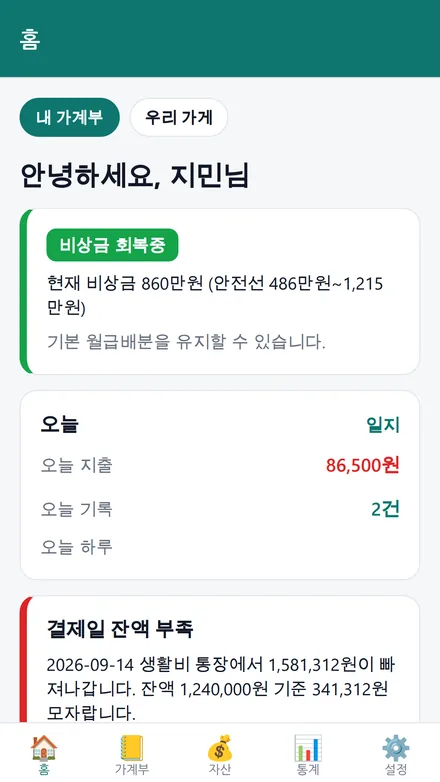
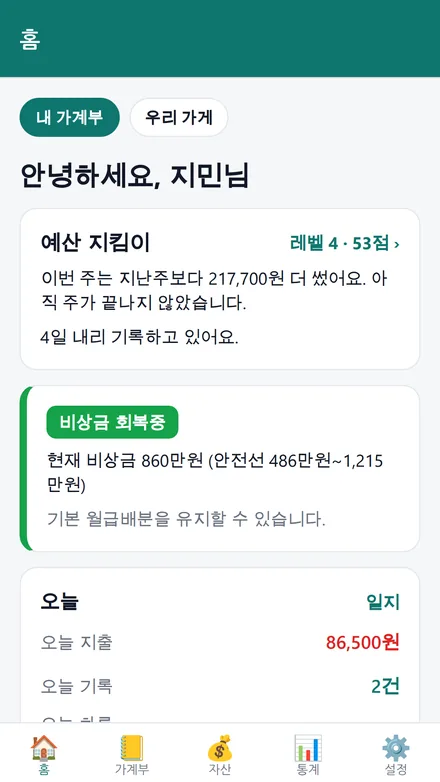
하우투 안내 페이지 갱신 2026-09-10 18:31

diff --git a/howtoo/index.html b/howtoo/index.html
@@ -23,6 +23,8 @@
     <a href="#screens">화면</a>
     <a href="#features">기능</a>
     <a href="#card-loan">카드·대출</a>
+    <a href="#grow">점수·뱃지</a>
+    <a href="#learn">금융 학습</a>
     <a href="./guide.html">사용 안내</a>
     <a href="./privacy.html">개인정보</a>
     <a class="lang" href="./en/">English</a>
@@ -37,16 +39,24 @@
       <h1>가계부가 달력을<br>볼 줄 알아야죠</h1>
       <p class="sub">
         카드 결제일이 주말·공휴일에 걸리면 실제로는 다음 영업일에 빠져나갑니다.
-        하우투는 그걸 계산해서 미리 알려줍니다. 그리고 돈 이야기만 하지 않습니다 —
-        그날 왜 그렇게 썼는지, 몸이 어땠는지까지 같이 남깁니다.
+        하우투는 그걸 계산해서 미리 알려줍니다. 카드 취소, 카드 혜택, 대출 이자와 원금 —
+        <b>가계부가 늘 틀리던 것들을 대신 계산합니다.</b>
       </p>
+      <ul class="wins" aria-label="이 앱이 대신 해 주는 것">
+        <li><b>실제 출금일</b>로 계산 — 휴일이면 다음 영업일</li>
+        <li><b>카드 취소</b>가 어느 청구서에서 빠지는지</li>
+        <li><b>어느 카드로 냈어야</b> 가장 좋았는지</li>
+        <li><b>이자와 원금</b>을 갈라서 기록 — 순자산이 정확해집니다</li>
+        <li><b>점수와 뱃지</b> — 이번 주엔 지난주보다 얼마 아꼈는지</li>
+        <li><b>연금·세금을 쉬운 말로</b> — 눈높이 세 단계</li>
+      </ul>
       <div class="badges">
         <a class="badge soon" href="#" aria-disabled="true">Google Play — 준비 중</a>
         <a class="badge soon" href="#" aria-disabled="true">App Store — 준비 중</a>
         <a class="badge ghost" href="./guide.html">사용 안내 보기</a>
       </div>
       <ul class="chips" aria-label="들어 있는 기능">
-        <li>가계부</li><li>소비 일기</li><li>생리 기록</li><li>계산기</li><li>자영업 손익</li><li>투자</li><li>절세</li>
+        <li>가계부</li><li>대출·할부</li><li>카드 혜택</li><li>소비 일기</li><li>생리 기록</li><li>계산기</li><li>자영업 손익</li><li>투자</li><li>절세</li><li>금융 학습</li>
       </ul>
     </div>
     <div class="phone"><img src="./img/shot-dashboard.webp" width="440" height="782" alt="홈 화면 — 비상금 상태, 오늘 지출, 모으기 진행률" /></div>
@@ -64,6 +74,8 @@
       <figure><img src="./img/shot-calculator.webp" width="440" height="782" alt="" loading="lazy" /><figcaption>계산기</figcaption></figure>
       <figure><img src="./img/shot-loans.webp" width="440" height="782" alt="" loading="lazy" /><figcaption>대출·할부</figcaption></figure>
       <figure><img src="./img/shot-benefits.webp" width="440" height="782" alt="" loading="lazy" /><figcaption>카드 혜택</figcaption></figure>
+      <figure><img src="./img/shot-progress.webp" width="440" height="782" alt="" loading="lazy" /><figcaption>내 점수</figcaption></figure>
+      <figure><img src="./img/shot-learn.webp" width="440" height="782" alt="" loading="lazy" /><figcaption>금융 학습</figcaption></figure>
     </div>
   </section>
 
@@ -152,12 +164,27 @@
           <tr>
             <td>디딤돌·버팀목·중기청 대출</td>
             <td class="no">직접 이율·방식을 계산</td>
-            <td class="yes">정부지원 상품까지 골라서 넣습니다 (36종)</td>
+            <td class="yes">정부지원 상품까지 골라서 넣습니다 (37종)</td>
+          </tr>
+          <tr>
+            <td>거치 3년 뒤 상환금이 뛴다</td>
+            <td class="no">닥쳐서야 알게 됨</td>
+            <td class="yes">거치가 끝나면 매달 얼마로 오르는지 지금 알려줍니다</td>
           </tr>
           <tr>
             <td>마이너스통장</td>
             <td class="no">할부처럼 취급되어 계산이 틀림</td>
             <td class="yes">한도와 쓴 만큼의 이자로 따로 계산합니다</td>
+          </tr>
+          <tr>
+            <td>아껴도 티가 안 나 재미가 없다</td>
+            <td class="no">숫자만 쌓임</td>
+            <td class="yes">점수·레벨·뱃지로 보여주고 &lsquo;지난주보다 얼마 아꼈는지&rsquo;를 같은 기간끼리 견줍니다</td>
+          </tr>
+          <tr>
+            <td>연금저축과 IRP가 뭐가 다른지 모름</td>
+            <td class="no">알아서 찾아보라고 함</td>
+            <td class="yes">앱 안에서 눈높이 세 단계로 설명합니다 (초등학생도 읽을 수 있게)</td>
           </tr>
           <tr>
             <td>부부가 각자 IRP·ISA를 굴림</td>
@@ -293,7 +320,7 @@
         <div class="icon">📋</div>
         <span class="tag">35종</span>
         <h3>디딤돌·버팀목·중기청까지</h3>
-        <p>주택담보·집단대출(중도금·잔금)·디딤돌·신생아 특례·생애최초·보금자리론·버팀목·청년전용·중소기업취업청년·캐피탈(신차·중고차)·휴대폰 할부·햇살론·사잇돌·마이너스통장까지 36종을 골라서 넣습니다.</p>
+        <p>주택담보(원리금·원금균등·거치식)·집단대출(중도금·잔금)·디딤돌·신생아 특례·생애최초·보금자리론·버팀목·청년전용·중소기업취업청년·캐피탈(신차·중고차)·휴대폰 할부·햇살론·사잇돌·마이너스통장까지 37종을 골라서 넣습니다. <b>거치기간</b>도 그대로 계산합니다.</p>
       </div>
     </div>
     <div class="note">
@@ -325,6 +352,60 @@
         <h3>각자 쓰고, 합쳐서 보고</h3>
         <p>부부·연인이 각자 장부를 그대로 굴리면서 자산과 흐름만 합쳐 봅니다. 연금·IRP·퇴직연금은 지금 못 쓰는 돈이라 따로 셉니다.</p>
       </div>
+    </div>
+  </section>
+
+  <section class="block" id="grow">
+    <h2>계속 하게 만드는 것들</h2>
+    <p class="lead">가계부는 석 달을 못 넘기는 게 보통입니다. 그래서 <b>좋아진 것을 먼저 보여줍니다.</b></p>
+    <div class="grid">
+      <div class="card tint-teal">
+        <div class="icon">📈</div>
+        <span class="tag">주간·월간 비교</span>
+        <h3>이번 주엔 얼마 아꼈나</h3>
+        <p>지난주 같은 요일까지, 지난달 같은 날까지와 견줍니다. 주 중간에 지난주 전체와 비교하면 틀린 말이 되니까요.</p>
+      </div>
+      <div class="card tint-purple">
+        <div class="icon">🏅</div>
+        <span class="tag">점수·레벨·뱃지</span>
+        <h3>돈이 많고 적음으로 매기지 않습니다</h3>
+        <p>기록 습관, 저축률, 예산 지키기, 비상금, 빚 줄이기 — 전부 <b>본인이 바꿀 수 있는 것</b>만 셉니다. 월급 300만원인 사람과 3,000만원인 사람이 같은 점수를 받을 수 있어야 하니까요.</p>
+      </div>
+      <div class="card tint-blue">
+        <div class="icon">🔥</div>
+        <span class="tag">연속 기록</span>
+        <h3>하루 빠져도 끊기지 않아요</h3>
+        <p>완벽하지 않아도 됩니다. 이틀 비어야 처음부터입니다. 못 받은 뱃지도 조건과 진행도를 보여주되 나무라지 않습니다.</p>
+      </div>
+    </div>
+  </section>
+
+  <section class="block" id="learn">
+    <h2>연금·세금을 쉬운 말로</h2>
+    <p class="lead">연금저축과 IRP가 뭐가 다른지, 퇴직금이 어디로 가는지 모르면 <b>세액공제 900만원을 그냥 흘려보냅니다.</b> 해외주식 팔고 5월에 신고를 안 하면 가산세를 뭅니다.</p>
+    <div class="grid">
+      <div class="card tint-peach">
+        <div class="icon">🪜</div>
+        <span class="tag">눈높이 3단계</span>
+        <h3>쉽게 · 보통 · 자세히</h3>
+        <p>같은 내용을 세 가지로 설명합니다. 초등학생이 읽을 말부터, 실제로 신고할 때 필요한 것까지. 전 연령이 쓰는 앱이니까요.</p>
+      </div>
+      <div class="card tint-teal">
+        <div class="icon">🏛</div>
+        <span class="tag">공적·퇴직·개인연금</span>
+        <h3>국민·공무원·사학·군인연금</h3>
+        <p>퇴직금 DB와 DC의 차이, 회사에서 받는 IRP와 개인 IRP, 연금저축까지. 2026년 연금개혁으로 바뀐 보험료율과 소득대체율도 반영했습니다.</p>
+      </div>
+      <div class="card tint-blue">
+        <div class="icon">🧾</div>
+        <span class="tag">투자·세금</span>
+        <h3>ISA · 해외주식 양도세</h3>
+        <p>연 250만원 공제 후 22%, 5월에 직접 신고. 손실 상계는 되지만 이월은 안 된다는 것까지. 금융소득종합과세 2,000만원 기준도 함께 봅니다.</p>
+      </div>
+    </div>
+    <div class="note">
+      <b>투자 권유는 하지 않습니다</b>
+      제도를 이해하도록 돕는 참고 자료입니다. 무엇이 세금이 적은지는 사실이지만, 무엇을 사야 하는지는 그 사람 사정입니다. 모든 항목에 기준 시점을 적어 두었고, 제도는 바뀌니 실제로 신고·가입할 때는 다시 확인하시라고 안내합니다.
     </div>
   </section>
 

diff --git a/howtoo/style.css b/howtoo/style.css
@@ -171,6 +171,18 @@ h1 {
 .badge.ghost { background: var(--card); color: var(--teal); }
 
 /* 칩 */
+/* 히어로 아래 '이 앱이 대신 해 주는 것' 목록. 장점을 첫 화면에서 바로 읽히게 한다. */
+.wins { list-style: none; padding: 0; margin: 0 0 24px; display: grid; gap: 8px; max-width: 34em; }
+.wins li {
+  position: relative; padding-left: 26px; font-size: 15.5px; color: var(--text); line-height: 1.55;
+}
+.wins li::before {
+  content: "✓"; position: absolute; left: 0; top: 0;
+  color: var(--teal); font-weight: 800;
+}
+.wins b { font-weight: 700; }
+@media (max-width: 720px) { .wins li { font-size: 15px; } }
+
 .chips { display: flex; flex-wrap: wrap; gap: 8px; list-style: none; padding: 0; margin: 0; }
 .chips li {
   font-size: 13px;
